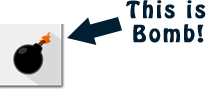
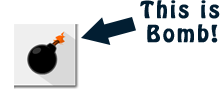
change instruction page

Changed region(s): [[0.0, 0.0, 1.0, 1.0]]

diff --git a/rulesPage.html b/rulesPage.html
@@ -25,7 +25,7 @@ function onloadPage(){
  
 	//start button
 	buttonX=70;
-	buttonY=400;
+	buttonY=390;
 	buttonWidth=192;
 	buttonHeight=52;
 	startButton=new Image();
@@ -123,7 +123,7 @@ Your browser does not support the canvas element.
 </div>
 <!--rules sentences-->
 <div id="rules">
-<p>Click to reveal the cards that do not contain the bombs. You score more if you can reveal cards in a very short time.</p>
+<p><img src="image/thisisbomb.png" alt="this is bomb" width="220" height="100"><br />Click to reveal the cards that do not contain bombs. You score more if you can reveal cards in a very short time.</p>
 </div>
 <!--loading page-->
 <div id="loading">LOADING...<br><br>Please wait</div>

diff --git a/game.css b/game.css
@@ -70,10 +70,10 @@ display: none;
 background-color:rgba(255,255,255,0.6);
 margin-top:40px;
 width:280px;
-height:260px;
+height:280px;
 text-align:center;
 color: #01294d;
-padding-top:60px;
+padding-top:35px;
 padding-right:20px;
 padding-left:20px;
 font-family: Comic Sans MS, sans-serif;
